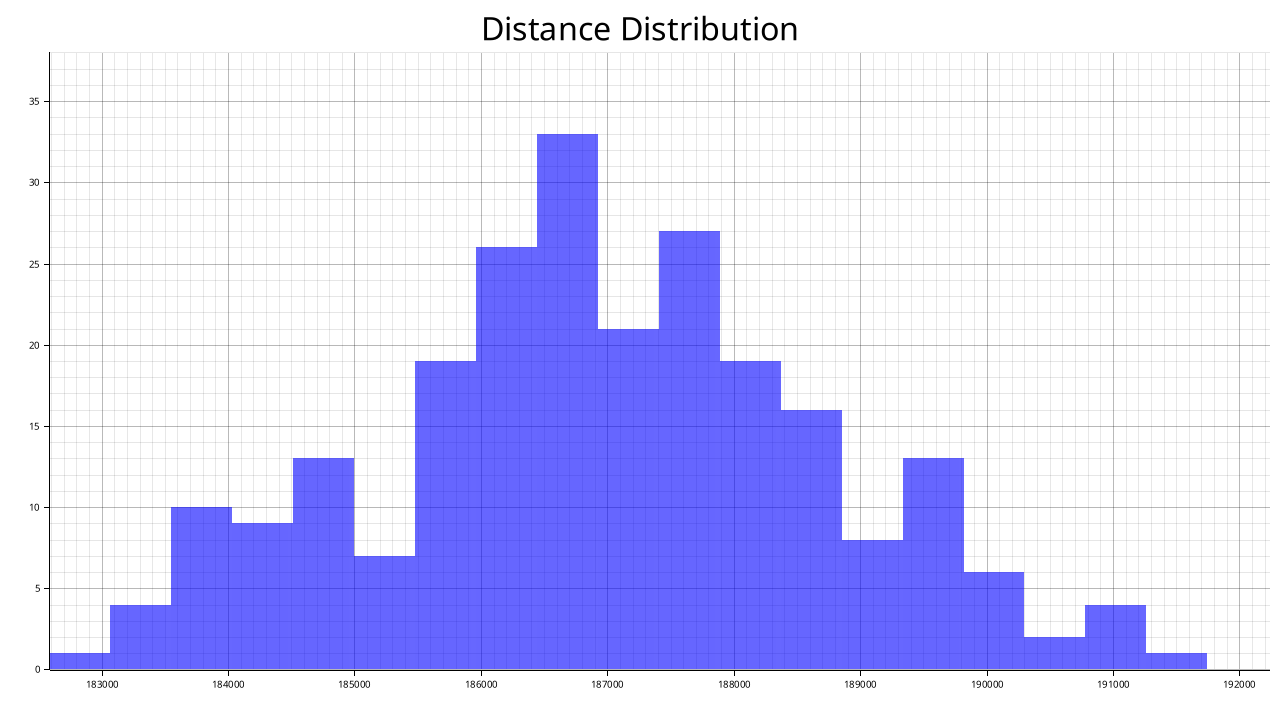
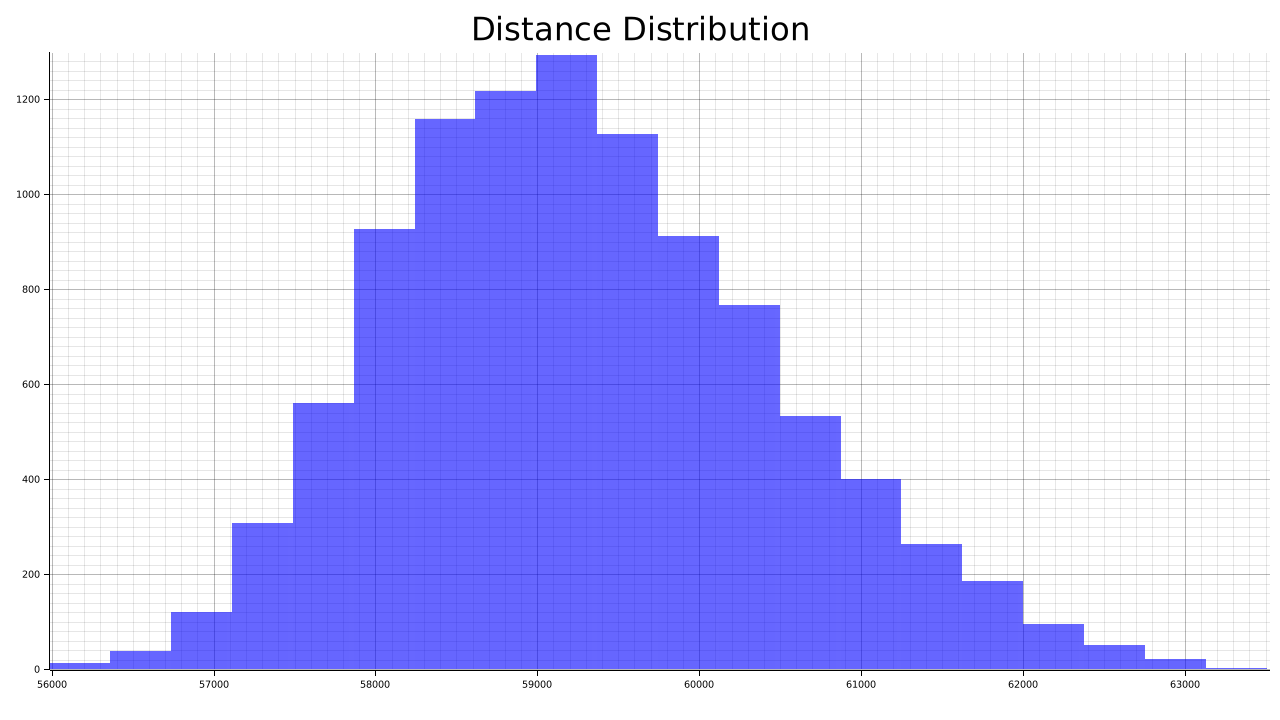
[GLHEMEH] Update README and new histogram

diff --git a/README.md b/README.md
@@ -111,16 +111,16 @@ After building, run the executable with:
 <b>Output Example for NL8:</b><br><br>
 
 <b>1. Example of permutation (JSON):</b>  
-[examples/permutations/perms.json](ttpgen/permutations/permutation.json)<br><br>
+[examples/permutations/perms.json](examples/permutations/permutation.json)<br><br>
 
 <b>2. Example of solution (JSON):</b>  
-[examples/solutions/solutions_1.json](ttpgen/solutions/solution_1.json)<br><br>
+[examples/solutions/solutions_1.json](examples/solutions/solution_1.json)<br><br>
 
 <b>3. Example of final print in log:</b>  
-[examples/log.txt](ttpgen/log.txt)<br><br>
+[examples/log.txt](examples/log.txt)<br><br>
 
 <b>4. Example of final histogram:</b>  
-[examples/dist_histogram.png](ttpgen/images/dist_histogram.png)<br>
+[examples/dist_histogram.png](examples/images/dist_histogram.png)<br>
 </div>
 
 
